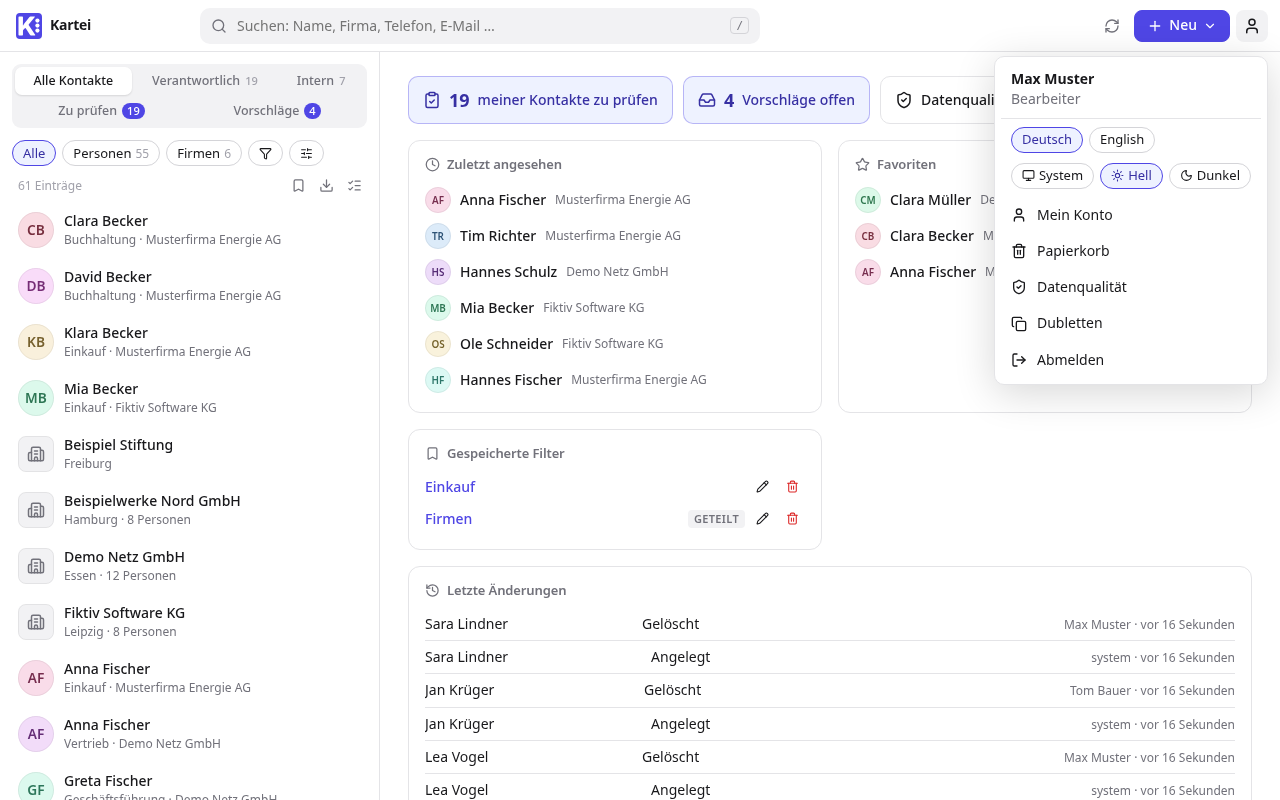
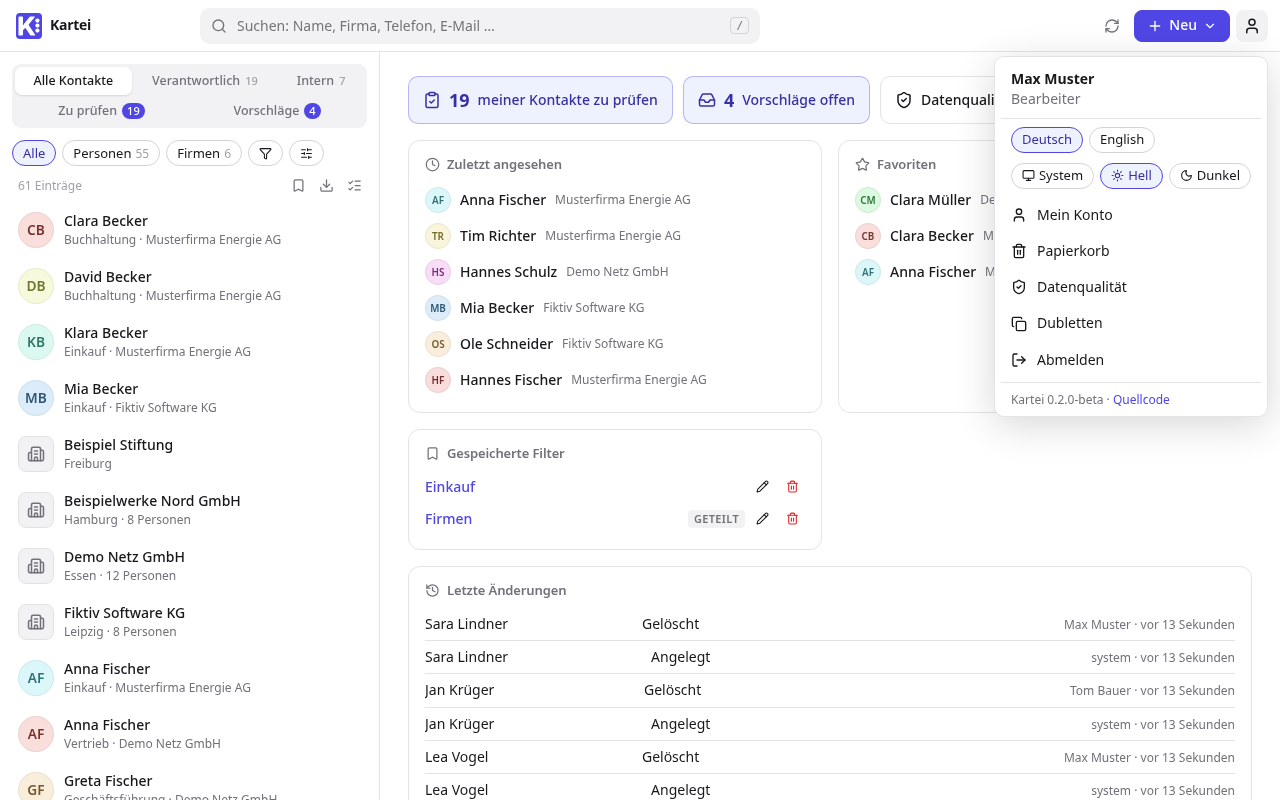
Version and source link in the user menu; upgrade test in CI; changelog for 0.2.0-beta (#8)

diff --git a/frontend/src/App.svelte b/frontend/src/App.svelte
@@ -274,6 +274,9 @@
             <a href="/settings/fields" onclick={() => document.getElementById('user-menu')?.hidePopover()}><Settings size={16} />{t('top.settings')}</a>
           {/if}
           <button onclick={() => store.logout()}><LogOut size={16} />{t('top.logout')}</button>
+          {#if store.about}
+            <div class="about">Kartei {store.about.version} · <a href={store.about.source} target="_blank" rel="noopener">{t('top.source')}</a></div>
+          {/if}
         </div>
       </div>
     </header>
@@ -478,6 +481,9 @@
   .save-row { display: flex; align-items: center; gap: 8px; justify-content: flex-end; }
   .save-row label { display: flex; align-items: center; gap: 6px; margin-right: auto; font-size: 13px; }
   .list { flex: 1; min-height: 0; }
+  .about { padding: 8px 10px 2px; border-top: 1px solid var(--border); margin-top: 4px; font-size: 12px; color: var(--muted); }
+  .about a { display: inline; width: auto; padding: 0; color: var(--accent); }
+  .about a:hover { background: none; text-decoration: underline; }
   .newprops { display: flex; flex-direction: column; gap: 2px; padding: 0 8px 6px; border-bottom: 1px solid var(--border); margin-bottom: 4px; }
   .newprops a { display: flex; align-items: center; gap: 8px; padding: 7px 10px; border-radius: 8px; color: var(--text); }
   .newprops a:hover, .newprops a.on { background: var(--panel-2); text-decoration: none; }

diff --git a/frontend/src/lib/store.svelte.ts b/frontend/src/lib/store.svelte.ts
@@ -27,6 +27,8 @@ interface Snapshot {
 class Store {
   status = $state<'loading' | 'login' | 'ready'>('loading')
   user = $state.raw<User | null>(null)
+  /** running version and source code (user menu), from the session */
+  about = $state.raw<{ version: string; source: string } | null>(null)
   defaultLang = $state<Lang>('de')
   fields = $state.raw<Field[]>([])
   /** field sections in their order */
@@ -97,7 +99,7 @@ class Store {
     // 1) render from cache immediately, 2) check session, 3) fetch deltas
     const cached = (await idbGet(CACHE_KEY).catch(() => undefined)) as Snapshot | undefined
     if (cached) this.apply(cached)
-    let session: { authenticated: boolean; default_language: Lang; user?: User }
+    let session: { authenticated: boolean; default_language: Lang; user?: User; version?: string; source?: string }
     try {
       session = await get('/api/session')
     } catch {
@@ -112,6 +114,7 @@ class Store {
       this.cursor = ''
     }
     this.user = session.user!
+    this.about = { version: session.version ?? '', source: session.source ?? '' }
     this.applyLang()
     await this.sync()
     this.status = 'ready'

diff --git a/frontend/src/i18n/de.ts b/frontend/src/i18n/de.ts
@@ -976,4 +976,5 @@ export default {
   'proposal.back': "Zur Startseite",
   'proposal.form_hint_new': "Der Kontakt wird nicht direkt angelegt, sondern einem Bearbeiter zur Freigabe vorgelegt.",
   'audit.type.proposal': "Vorschlag",
+  'top.source': "Quellcode",
 } as Record<string, string>

diff --git a/frontend/src/i18n/en.ts b/frontend/src/i18n/en.ts
@@ -976,4 +976,5 @@ export default {
   'proposal.back': "Back to the start page",
   'proposal.form_hint_new': "The contact is not created directly; it goes to a maintainer for approval.",
   'audit.type.proposal': "Proposal",
+  'top.source': "Source code",
 } as Record<string, string>

diff --git a/.github/upgrade-fingerprint.py b/.github/upgrade-fingerprint.py
@@ -1,0 +1,29 @@
+# Fingerprint of a Kartei database for the upgrade test (CI job "Upgrade from the latest release"):
+#   python manage.py shell < upgrade-fingerprint.py
+# Runs on the old release and, after the migrations, on the new code; both must print the same line.
+# Only uses what every release has, so the old image can run it too.
+import hashlib
+import json
+
+from django.contrib.auth.models import User
+from kartei.models import AuditEntry, FieldDef, Proposal, Record, Settings
+
+
+def digest(rows):
+    return hashlib.sha256(json.dumps(rows, sort_keys=True, default=str).encode()).hexdigest()[:16]
+
+
+s = Settings.get()
+print("FINGERPRINT " + json.dumps({
+    "records": Record.objects.count(),
+    "records_digest": digest(sorted(
+        [str(uid), kind, version, first, last, name, str(company), data, str(deleted)]
+        for uid, kind, version, first, last, name, company, data, deleted in Record.objects.values_list(
+            "uid", "kind", "version", "first_name", "last_name", "name", "company__uid", "data", "deleted_at"))),
+    "proposals": sorted([kind, status, str(uid)] for kind, status, uid in
+                        Proposal.objects.values_list("kind", "status", "record__uid")),
+    "users": sorted(User.objects.values_list("username", flat=True)),
+    "fields": sorted(FieldDef.objects.values_list("key", flat=True)),
+    "audit_entries": AuditEntry.objects.count(),
+    "settings": [s.default_language, s.review_mode, s.review_interval_months],
+}, sort_keys=True))

diff --git a/backend/kartei/tests.py b/backend/kartei/tests.py
@@ -8,7 +8,7 @@ from unittest import mock
 
 from django.contrib.auth.hashers import make_password
 from django.contrib.auth.models import User
-from django.test import TestCase
+from django.test import TestCase, override_settings
 from django.utils import timezone
 
 from pathlib import Path
@@ -432,6 +432,15 @@ class PostalCodeTests(ApiTestBase):
         csv_data = "ID;Vorname;Nachname;Firma;PLZ\nP-1;A;B;;01067\n".encode()
         import_test_csv(csv_data, dry_run=False)
         self.assertEqual(Record.objects.get(legacy_id="P-1").data["work_zip"], "01067")
+
+
+class SessionTests(ApiTestBase):
+    @override_settings(KARTEI_VERSION="9.9.9-test", KARTEI_SOURCE_URL="https://example.org/fork")
+    def test_version_and_source_only_when_signed_in(self):
+        self.assertNotIn("version", self.client.get("/api/session").json())
+        self.as_("read")
+        s = self.client.get("/api/session").json()
+        self.assertEqual((s["version"], s["source"]), ("9.9.9-test", "https://example.org/fork"))
 
 
 class UserFieldTests(ApiTestBase):

diff --git a/backend/config/settings.py b/backend/config/settings.py
@@ -62,6 +62,11 @@ TEMPLATES = [{
 }]
 
 # an empty DATABASE_URL counts as unset (dj_database_url would fall back to a dummy backend)
+# shown in the user menu: the release tag (set by the image build) and where the source code is (AGPL: forks that run
+# a modified version point this at their code)
+KARTEI_VERSION = os.environ.get("KARTEI_VERSION") or "dev"
+KARTEI_SOURCE_URL = os.environ.get("KARTEI_SOURCE_URL") or "https://github.com/ahitsystems/Kartei"
+
 DATABASES = {"default": dj_database_url.parse(
     os.environ.get("DATABASE_URL") or f"sqlite:///{BASE_DIR / 'db.sqlite3'}", conn_max_age=600,
     conn_health_checks=True)}  # a reused connection is checked first (e.g. after a cluster failover)

diff --git a/backend/kartei/api.py b/backend/kartei/api.py
@@ -6,6 +6,7 @@ import uuid
 from datetime import timedelta
 from functools import wraps
 
+from django.conf import settings as dj
 from django.contrib.auth import authenticate, login, logout
 from django.contrib.auth.hashers import make_password
 from django.contrib.auth.models import User
@@ -168,7 +169,7 @@ def session(request):
     s = Settings.get()
     out = {"default_language": s.default_language, "authenticated": request.user.is_authenticated}
     if request.user.is_authenticated:
-        out["user"] = ser_user(request.user)
+        out |= {"user": ser_user(request.user), "version": dj.KARTEI_VERSION, "source": dj.KARTEI_SOURCE_URL}
     return JsonResponse(out)
 
 

diff --git a/.github/upgrade-smoke.py b/.github/upgrade-smoke.py
@@ -1,0 +1,9 @@
+# After the upgrade test's migrations: the new code serves the old data (python manage.py shell < upgrade-smoke.py)
+from django.test import Client
+
+c = Client(HTTP_HOST="localhost")
+assert c.post("/api/login", {"username": "mmuster", "password": "demo12345"}, content_type="application/json").status_code == 200
+b = c.get("/api/bootstrap").json()
+assert len(b["records"]) > 50 and len(b["proposals"]) >= 3, (len(b["records"]), len(b["proposals"]))
+assert c.get(f"/api/records/{b['records'][0]['uid']}").status_code == 200
+print("SMOKE OK", len(b["records"]), "records", len(b["proposals"]), "proposals")

diff --git a/README.md b/README.md
@@ -39,7 +39,7 @@ cp .env.example .env        # set SECRET_KEY, POSTGRES_PASSWORD, ADMIN_USERNAME/
 docker compose up -d --build
 ```
 
-Instead of building, you can use the released images: set `KARTEI_IMAGE=ghcr.io/ahitsystems/kartei:0.1.0-beta` in `.env`, then `docker compose pull && docker compose up -d --no-build` (relay: `RELAY_IMAGE=ghcr.io/ahitsystems/kartei-relay:0.1.0-beta`).
+Instead of building, you can use the released images: set `KARTEI_IMAGE=ghcr.io/ahitsystems/kartei:0.2.0-beta` in `.env`, then `docker compose pull && docker compose up -d --no-build` (relay: `RELAY_IMAGE=ghcr.io/ahitsystems/kartei-relay:0.2.0-beta`).
 
 To use a dedicated PostgreSQL server or cluster instead of the bundled database container, set `DATABASE_URL` and use `compose.external-db.yaml`; the administrator manual (Installation) has the details.
 
@@ -88,7 +88,7 @@ cd frontend && npm test && npm run check
 cd frontend && npm run test:e2e   # browser tests against a running server with seed_demo data (once: npx playwright install chromium)
 ```
 
-GitHub Actions runs the backend tests on SQLite and PostgreSQL 18, the frontend checks, the browser tests and the Docker build on every push, keeps SBOMs (SPDX and CycloneDX) of the source tree and both images as a build artifact, and scans both images for known vulnerabilities (Grype; results under *Security → Code scanning*; a critical vulnerability with an available fix fails the build). The images of the latest release are scanned again every day. Dependabot proposes weekly updates for Python, npm, the Docker base images and the actions; it stays on the Django LTS and on the newest Python that Django supports.
+GitHub Actions runs the backend tests on SQLite and PostgreSQL 18, the frontend checks, the browser tests, an upgrade test (the latest release's image with sample data, then this version's migrations: the data must be unchanged) and the Docker build on every push, keeps SBOMs (SPDX and CycloneDX) of the source tree and both images as a build artifact, and scans both images for known vulnerabilities (Grype; results under *Security → Code scanning*; a critical vulnerability with an available fix fails the build). The images of the latest release are scanned again every day. Dependabot proposes weekly updates for Python, npm, the Docker base images and the actions; it stays on the Django LTS and on the newest Python that Django supports.
 
 ### Releases
 

diff --git a/CHANGELOG.md b/CHANGELOG.md
@@ -4,8 +4,16 @@ All notable changes to Kartei are listed here. The format follows [Keep a Change
 
 ## [Unreleased]
 
+## [0.2.0-beta] – 2026-10-25
+
+Second beta: read-only users can propose new contacts, Kartei can use a dedicated PostgreSQL server or cluster, images are also built for ARM64, and large directories load faster.
+
+**Updating from 0.1.0-beta:** back up the database, then either set `KARTEI_IMAGE=ghcr.io/ahitsystems/kartei:0.2.0-beta` and run `docker compose pull && docker compose up -d --no-build`, or `git pull && docker compose up -d --build`. The database is migrated automatically on start; nothing else has to be changed.
+
 ### Added
 
+- The user menu shows the running version and a link to the source code (`KARTEI_SOURCE_URL` for modified versions).
+- An upgrade test in CI: the latest release's image with sample data, then this version's migrations; the data must stay unchanged.
 - Read-only users can propose new persons and companies (*New → Propose new person/company*); maintainers create, adjust or reject them from the list *Proposals*. Included in the proposal emails and the audit log.
 - Support for a dedicated PostgreSQL server or cluster instead of the bundled database container (`compose.external-db.yaml`), documented in the administrator manual with TLS, cluster, PgBouncer and migration notes.
 - End-to-end browser tests (Playwright) that run in CI on every push and pull request.
@@ -35,5 +43,6 @@ First public beta.
 - German and English, light and dark theme, installable as an app.
 - Images on the GitHub container registry, manuals as PDF, SBOMs and the OpenAPI description attached to the release.
 
-[Unreleased]: https://github.com/ahitsystems/Kartei/compare/v0.1.0-beta...HEAD
+[Unreleased]: https://github.com/ahitsystems/Kartei/compare/v0.2.0-beta...HEAD
+[0.2.0-beta]: https://github.com/ahitsystems/Kartei/compare/v0.1.0-beta...v0.2.0-beta
 [0.1.0-beta]: https://github.com/ahitsystems/Kartei/releases/tag/v0.1.0-beta

diff --git a/CONTRIBUTING.md b/CONTRIBUTING.md
@@ -37,7 +37,7 @@ The [README](README.md#development) has the full setup. In short: Python 3.14 wi
 - **Two languages:** every UI string exists in German and English (`frontend/src/i18n/de.ts` and `en.ts`); a test checks that both have the same keys. The API returns error codes, the frontend translates them.
 - **Configurable in the UI:** settings belong in the database and the *Settings* area, not in environment variables or code. Environment variables are only for bootstrap values (database, secret key, hosts, first admin).
 - **No customer specifics:** no company names, host names, paths or field sets of a particular installation in code, examples or documentation. Field sets are JSON files in `examples/`.
-- **Database migrations:** add a new migration for model changes (`manage.py makemigrations kartei`); never edit or squash migrations that are part of a release.
+- **Database migrations:** add a new migration for model changes (`manage.py makemigrations kartei`); never edit or squash migrations that are part of a release. CI's upgrade test runs them on the latest release's data.
 - **Audit and safety:** every change to contacts and settings is written to the audit log; anything that deletes asks for confirmation; secrets are stored encrypted or hashed and never returned by the API.
 - **Changelog:** add a line under *Unreleased* in [CHANGELOG.md](CHANGELOG.md) for every change users or administrators notice; it becomes the release text.
 - **Documentation:** user-facing changes update the manuals in `manuals/en` *and* `manuals/de`; API changes update `docs/API.md` and `docs/openapi.yaml`. If a screen changes, regenerate the screenshots (see the README, *Screenshots for the manuals*).
